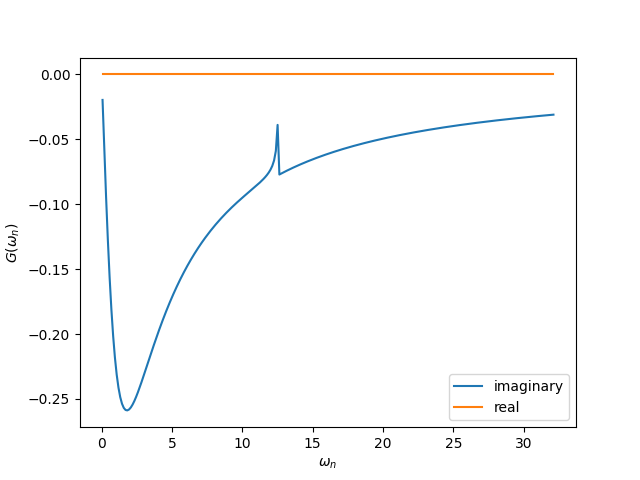
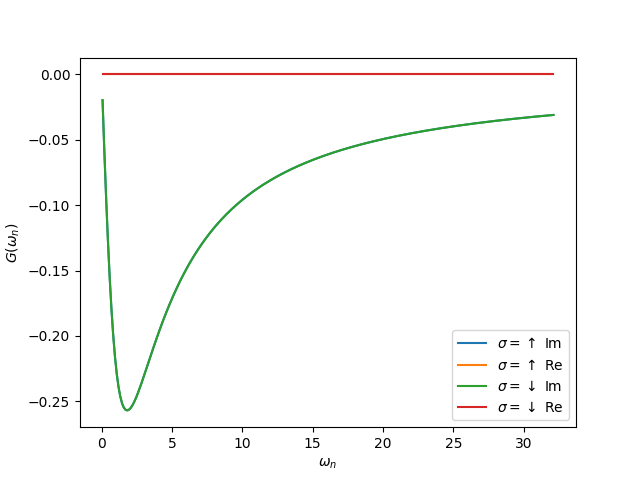
ferromagnetic

diff --git a/matsubara_w/ipt_imag_HM.py b/matsubara_w/ipt_imag_HM.py
@@ -36,7 +36,7 @@ from common import gt_fouriertrans, gw_invfouriertrans
 import common as gf
 import matplotlib.pylab as plt
 
-def single_band_ipt_solver(u_int, g_0_iwn, w_n, tau):
+def single_band_ipt_solver(u_int, g_0_iwn_up, g_0_iwn_dn, w_n, tau):
     r"""Given a Green function it returns a dressed one and the self-energy
 
     .. math:: \Sigma(\tau) \approx U^2 \mathcal{G}^0(\tau)^3
@@ -60,17 +60,24 @@ def single_band_ipt_solver(u_int, g_0_iwn, w_n, tau):
         Imaginary time points, not included edge point of :math:`\beta^-`
     """
 
-    g_0_tau = gw_invfouriertrans(g_0_iwn, tau, w_n, [1., 0., 0.25])
+    beta = tau[-1]
+    g_0_tau_up = gw_invfouriertrans(g_0_iwn_up, tau, w_n, [1., 0., 0.25])
+    g_0_tb_up = [g_0_tau_up[len(tau)-1-t] for t in range(len(tau))]
+    g_0_tau_dn = gw_invfouriertrans(g_0_iwn_dn, tau, w_n, [1., 0., 0.25])
+    g_0_tb_dn = [g_0_tau_dn[len(tau)-1-t] for t in range(len(tau))]    
     # IPT self-energy using G0 of quantum impurity
-    sigma_tau = u_int**2 * g_0_tau**3 
-    sigma_iwn = gt_fouriertrans(sigma_tau, tau, w_n, [u_int**2 / 4., 0., 0.])
+    sigma_tau_up = u_int**2 * g_0_tau_up * g_0_tb_dn * g_0_tau_dn
+    sigma_tau_dn = u_int**2 * g_0_tau_dn * g_0_tb_up * g_0_tau_up
+    sigma_iwn_up = gt_fouriertrans(sigma_tau_up, tau, w_n, [u_int**2 / 4., 0., 0.])
+    sigma_iwn_dn = gt_fouriertrans(sigma_tau_dn, tau, w_n, [u_int**2 / 4., 0., 0.])
     # Dyson eq.
-    g_iwn = g_0_iwn / (1 - sigma_iwn * g_0_iwn) 
+    g_iwn_up = g_0_iwn_up / (1 - sigma_iwn_up * g_0_iwn_up)
+    g_iwn_dn = g_0_iwn_dn / (1 - sigma_iwn_dn * g_0_iwn_dn)    
 
-    return g_iwn, sigma_iwn
+    return g_iwn_up, g_iwn_dn, sigma_iwn_up, sigma_iwn_dn
 
 
-def dmft_loop(u_int, t, g_iwn, w_n, tau, mix=1, conv=1e-3):
+def dmft_loop(u_int, t, g_iwn_up, g_iwn_dn, w_n, tau, mix=1, conv=1e-3):
     r"""Performs the paramagnetic(spin degenerate) self-consistent loop in a
     bethe lattice given the input
 
@@ -100,68 +107,33 @@ def dmft_loop(u_int, t, g_iwn, w_n, tau, mix=1, conv=1e-3):
     loops = 0
     iw_n = 1j * w_n
     while not converged:
-        g_iwn_old = g_iwn.copy()
+        g_iwn_up_old = g_iwn_up.copy()
+        g_iwn_dn_old = g_iwn_dn.copy()
         # Non-interacting GF of quantum impurity
-        g_0_iwn = 1. / (iw_n - t**2 * g_iwn_old)
-        g_iwn, sigma_iwn = single_band_ipt_solver(u_int, g_0_iwn, w_n, tau)
+        g_0_iwn_up = 1. / (iw_n - t**2 * g_iwn_up_old)
+        g_0_iwn_dn = 1. / (iw_n - t**2 * g_iwn_dn_old)
+        g_iwn_up, g_iwn_dn, sigma_iwn_up, sigma_iwn_dn = single_band_ipt_solver(u_int, g_0_iwn_up, g_0_iwn_dn, w_n, tau)
         # Clean for Half-fill
-        g_iwn.real = 0.
-        converged = np.allclose(g_iwn_old, g_iwn, conv)
+        g_iwn_up.real = g_iwn_dn.real = 0.
+        converged = np.allclose(g_iwn_up_old, g_iwn_up, conv) and np.allclose(g_iwn_dn_old, g_iwn_dn, conv)
         loops += 1
         if loops > 500:
             converged = True
-        g_iwn = mix * g_iwn + (1 - mix) * g_iwn_old
-    return g_iwn, sigma_iwn
-
-###############################################################################
-# Energy calculations
-
-def ekin(g_iw, s_iw, beta, w_n, ek_mean, g_iwfree):
-    """Calculates the Kinetic Energy
-    """
-    return 2 * (1j * w_n * (g_iw - g_iwfree) - s_iw * g_iw).real.sum() / beta + ek_mean
-
-
-def ekin_tau(g_iw, tau, w_n, u_int):
-    gt = gw_invfouriertrans(g_iw, tau, w_n, [1., 0., u_int**2 / 4 + 0.25])
-    return -0.5 * simps(gt * gt, tau)
-
-
-def epot(g_iw, s_iw, u, beta, w_n):
-    r"""Calculates the Potential Energy
-
-    Using the local Green Function and self energy the potential
-    energy is calculated using :ref:`potential_energy`
-
-    Taking the tail of this product to decay in the half-filled single
-    band case as:
-
-    .. math:: \Sigma G \rightarrow \frac{U^2}{4(i\omega_n)^2}
-
-    The potential energy per spin is calculated by
-
-    .. math:: \langle V \rangle = \frac{1}{\beta} \sum_{n} \frac{1}{2} (\Sigma(i\omega_n)G(i\omega_n) - \frac{U^2}{4(i\omega_n)^2} + \frac{U^2}{4(i\omega_n)^2})
-    .. math:: = \frac{1}{\beta} \sum_{n>0} \Re e (\Sigma(i\omega_n)G(i\omega_n) - \frac{U^2}{4(i\omega_n)^2}) + \frac{U^2}{8\beta} \sum_{n} \frac{1}{(i\omega_n)^2}
-    .. math:: = \frac{1}{\beta} \sum_{n>0} \Re e (\Sigma(i\omega_n)G(i\omega_n) - \frac{U^2}{4(i\omega_n)^2}) - \frac{U^2\beta}{32}
-
-    """
-    # the last u/8 is because sigma to zero order has the Hartree term
-    # that is avoided in IPT Sigma=U/2. Then times G->1/2 after sum
-    # and times 1/2 of the formula
-    return (s_iw * g_iw + u**2 / 4. / w_n**2).real.sum() / beta - beta * u**2 / 32. + u / 8
-
+        g_iwn_up = mix * g_iwn_up + (1 - mix) * g_iwn_up_old
+        g_iwn_dn = mix * g_iwn_dn + (1 - mix) * g_iwn_dn_old
+    return g_iwn_up, g_iwn_dn, sigma_iwn_up, sigma_iwn_dn
 
 # Parameters
 t = 0.5     # Hopping
 Nwn = 256   # Num of freq: Check if it is consistent with FFT criteria
 
 U_max = 5.
-U_list = np.arange(0.5, U_max, 0.125)    # Interaction strength
-U_print = np.arange(0.5, U_max, 0.125)   # Values when obs should be computed
-#beta_list = np.arange(10, 240, 10)      # Inverse of temperature
+U_list = np.arange(0.5, U_max, 0.125)   # Interaction strength
+U_print = np.arange(0.5, U_max, 0.5)    # Values when obs should be computed
+beta_list = np.arange(10, 240, 10)      # Inverse of temperature
 #beta_print = np.arange(10, 240, 50)
-beta_list = [50]
-beta_print = [50]
+#U_list = U_print = [2.5]
+beta_list = beta_print = [50]
 
 # Hysteresis
 hyst = 1    
@@ -175,21 +147,26 @@ de = t/10                       # Energy differential
 e = np.arange(-2*t, 2*t, de)    # Energy
 
 # Observables
+tau_U = []
 dos_U = []
 n_U = []
 d_U = []
 Ekin_U = []
 Z_U = []
 phase_U = []
-Gwn_U = []
+Gwn_U_up = []
+Gwn_U_dn = []
+Gtau_U_up = []
+Gtau_U_dn = []
 
 # Main loop
 for beta in beta_list:
     # Generate Matsubara freq
-    tau, wn = gf. tau_wn_setup(beta, Nwn)
+    tau, wn = gf. tau_wn_setup(beta, Nwn) 
     
     # Seed green function
-    G_iwn = gf.greenF(wn, sigma=0, mu=0, D=1)
+    G_iwn_up = gf.greenF(wn, 1, 0, 2*t)
+    G_iwn_dn = gf.greenF(wn, -1, 0, 2*t)
     
     # Index of zero frequency
     w0_idx = int(len(w)/2)
@@ -200,28 +177,44 @@ for beta in beta_list:
     Ekin_beta = []
     Z_beta = []
     phase_beta = []
-    Gwn_beta = []
+    Gwn_beta_up = []
+    Gwn_beta_dn = []
+    Gtau_beta_up = []
+    Gtau_beta_dn = []
 
     for U in U_list:
-        G_iwn, Sig_iwn = dmft_loop(U, t, G_iwn, wn, tau, mix=1, conv=1e-3)
+        G_iwn_up, G_iwn_dn, Sig_iwn_up, Sig_iwn_dn = dmft_loop(U, t, G_iwn_up, G_iwn_dn, wn, tau, mix=1, conv=1e-3)
+        
+        G_iwn = G_iwn_up
+        Sig_iwn = Sig_iwn_up
+        
+        # Imaginary time Green function
+        G_tau_up = gw_invfouriertrans(G_iwn_up, tau, wn, [1., 0., 0.25])
+        G_tau_dn = gw_invfouriertrans(G_iwn_dn, tau, wn, [1., 0., 0.25])
         
         # Analytic continuation using Pade
-        g_w = gf.pade_continuation(G_iwn, wn, w, w_set=None)
-        sig_w = gf.pade_continuation(Sig_iwn, wn, w, w_set=None)
+        #g_w = gf.pade_continuation(G_iwn, wn, w, w_set=None)
+        #sig_w = gf.pade_continuation(Sig_iwn, wn, w, w_set=None)
         
         # Phase of material, 0 for metallic, 1 for insulating
+        '''
         phase = -1 if -g_w[w0_idx].imag > 1e-2 else 1
         phase_beta.append(phase)  
+        '''
         
         if U in U_print and beta in beta_print:
-            # Save Matsubara Green function
-            Gwn_beta.append(G_iwn)
+            # Save Green functions
+            Gwn_beta_up.append(G_iwn_up)
+            Gwn_beta_dn.append(G_iwn_dn)
+            Gtau_beta_up.append(G_tau_up)
+            Gtau_beta_dn.append(G_tau_dn)
             
             # DOS
-            dos_beta.append(-g_w.imag)
+            #dos_beta.append(-g_w.imag/np.pi)
             
             # Electron concentration for temp 1/beta and energy w
-            n = np.sum(-g_w.imag/np.pi * gf.fermi_dist(w, beta) * dw)
+            #n = np.sum(-g_w.imag/np.pi * gf.fermi_dist(w, beta) * dw)
+            n = np.sum(G_iwn.real) + 0.5
             n_beta.append(n)
             
             # Double occupancy
@@ -237,19 +230,24 @@ for beta in beta_list:
             Ekin_beta.append(Ekin.real)
             
             # Quasi-particle weight
-            dSig = (sig_w[w0_idx+1].real-sig_w[w0_idx].real)/dw
-            Z_beta.append(1/(1-dSig))
+            #dSig = (sig_w[w0_idx+1].real-sig_w[w0_idx].real)/dw
+            #Z_beta.append(1/(1-dSig))
     
     if beta in beta_print:
+        tau_U.append(tau)
         dos_U.append(dos_beta)
         n_U.append(n_beta)
         d_U.append(d_beta)
         Ekin_U.append(Ekin_beta)
         Z_U.append(Z_beta)
         phase_U.append(phase_beta)
-        Gwn_U.append(Gwn_beta)
+        Gwn_U_up.append(Gwn_beta_up)
+        Gwn_U_dn.append(Gwn_beta_dn)
+        Gtau_U_up.append(Gtau_beta_up)
+        Gtau_U_dn.append(Gtau_beta_dn)
     
 # Print DOS
+'''
 for i in range(len(beta_print)):
     dos = dos_U[i]
     beta = beta_print[i]
@@ -262,26 +260,47 @@ for i in range(len(beta_print)):
     plt.title(r'$\beta=$'+str(beta))
     plt.savefig("./figures/dos_beta="+str(beta)+".png")
     plt.close()
+'''
 
-# Print Matsubara Green function
+# Print Green functions
 for i in range(len(beta_print)):
     beta = beta_print[i]
-    Gwn = Gwn_U[i]
+    tau = tau_U[i]
+    Gwn_up = Gwn_U_up[i]
+    Gwn_dn = Gwn_U_dn[i]
+    Gtau_up = Gtau_U_up[i]
+    Gtau_dn = Gtau_U_dn[i]
     for j in range(len(U_print)):
         U = U_print[j]
+        
+        # Matsubara Green function
         plt.figure()
         plt.xlabel(r'$\omega_n$')
         plt.ylabel(r'$G(\omega_n)$')
-        plt.plot(wn, Gwn[j].imag, label='imaginary')
-        plt.plot(wn, Gwn[j].real, label='real')
+        plt.plot(wn, Gwn_up[j].imag, label=r'$\sigma=\uparrow$ Im')
+        plt.plot(wn, Gwn_up[j].real, label=r'$\sigma=\uparrow$ Re')
+        plt.plot(wn, Gwn_dn[j].imag, label=r'$\sigma=\downarrow$ Im')
+        plt.plot(wn, Gwn_dn[j].real, label=r'$\sigma=\downarrow$ Re')
         plt.legend()
         plt.savefig("./figures/Gwn/Gwn_beta="+str(beta)+"_U="+str(U)+".png")
+        plt.close()
+        
+        # Imaginary time Green function
+        plt.figure()
+        plt.xlabel(r'$\tau$')
+        plt.ylabel(r'$G(\tau)$')
+        plt.plot(tau, Gtau_up[j].imag, label=r'$\sigma=\uparrow$ Im')
+        plt.plot(tau, Gtau_up[j].real, label=r'$\sigma=\uparrow$ Re')
+        plt.plot(tau, Gtau_dn[j].imag, label=r'$\sigma=\downarrow$ Im')
+        plt.plot(tau, Gtau_dn[j].real, label=r'$\sigma=\downarrow$ Re')
+        plt.legend()
+        plt.savefig("./figures/Gtau/Gtau_beta="+str(beta)+"_U="+str(U)+".png")
         plt.close()
 
 # Print zero-freq Matsubara Green function
 for i in range(len(beta_print)):
     beta = beta_print[i]
-    Gwn = Gwn_U[i]
+    Gwn = Gwn_U_up[i]
     Gw0 = []
     for g in Gwn:
         Gw0.append(g[0].imag)
@@ -299,9 +318,10 @@ for i in range(len(beta_print)):
     beta = beta_print[i]    
     plt.xlabel('U')
     plt.ylabel('n')
-    plt.plot(U_print, n, label=str(beta))
+    plt.plot(U_print, n, label='beta='+str(beta))
     plt.legend()
 plt.savefig("./figures/n.png")
+
 
 # Print d
 plt.figure()
@@ -310,7 +330,7 @@ for i in range(len(beta_print)):
     beta = beta_print[i]    
     plt.xlabel('U')
     plt.ylabel('d')
-    plt.plot(U_print, d, label=str(beta))
+    plt.plot(U_print, d, label='beta='+str(beta))
     plt.legend()
 plt.savefig("./figures/d.png")
 
@@ -323,22 +343,25 @@ for i in range(len(beta_print)):
     plt.ylabel(r'$E_K$')
     plt.xlim(2, 3.5)
     plt.ylim(-0.5, 0)
-    plt.plot(U_print, Ekin, label=str(beta))
+    plt.plot(U_print, Ekin, label='beta='+str(beta))
     plt.legend()
 plt.savefig("./figures/Ekin.png")
 
 # Print quasi-particle weight
+'''
 plt.figure()
 for i in range(len(beta_print)):
     Z = Z_U[i]
     beta = beta_print[i]
     plt.xlabel('U')
     plt.ylabel('Z')
-    plt.plot(U_print, Z, label=str(beta))
+    plt.plot(U_print, Z, label='beta='+str(beta))
     plt.legend()
 plt.savefig("./figures/Z.png")
+'''
 
 # Print phase diagram
+'''
 plt.figure()
 plt.xlabel('U')
 plt.ylabel('T')
@@ -358,3 +381,4 @@ im_edges = [U_list[0], U_max,
             T_list[0], T_list[len(T_list)-1]]
 plt.imshow(phase_diag, interpolation='none', extent=im_edges, aspect='auto')
 plt.savefig("./figures/phase_diag.png")
+'''

diff --git a/matsubara_w/common.py b/matsubara_w/common.py
@@ -55,12 +55,18 @@ def tau_wn_setup(beta,Nwn):
     """
 
     w_n = matsubara_freq(beta, Nwn)
-    tau = np.arange(0, beta, Nwn / 2 / len(w_n))
+    
+    '''
+    Rodo's comment: when including beta in tau array, sampling must be
+    greater than 2. 100 works ok
+    '''
+    sample = 1e2
+    tau = np.arange(0, beta+1/sample, Nwn / sample / len(w_n)) # Nwn = len(w_n)
 
     return tau, w_n
 
 
-def greenF(w_n, sigma=0, mu=0, D=1):
+def greenF(w_n, sigma, mu, D):
     r"""Calculate the Bethe lattice Green function, defined as part of the
     hilbert transform.
 
@@ -144,7 +150,8 @@ def gt_fouriertrans(g_tau, tau, w_n, tail_coef=(1., 0., 0.)):
     freq_tail_fourier
     gt_fouriertrans"""
 
-    beta = tau[1] + tau[-1]
+    #beta = tau[1] + tau[-1] # Un-comment if tau doesnt include beta 
+    beta = tau[-1]
     freq_tail, time_tail = freq_tail_fourier(tail_coef, beta, tau, w_n)
 
     gtau = g_tau - time_tail    
@@ -193,7 +200,6 @@ def freq_tail_fourier(tail_coef, beta, tau, w_n):
 
     return freq_tail, time_tail
 
-
 def gw_invfouriertrans(g_iwn, tau, w_n, tail_coef=(1., 0., 0.)):
     r"""Performs an inverse fourier transform of the green Function in which
     only the imaginary positive matsubara frequencies
@@ -236,7 +242,8 @@ def gw_invfouriertrans(g_iwn, tau, w_n, tail_coef=(1., 0., 0.)):
     freq_tail_fourier
     """
 
-    beta = tau[1] + tau[-1]
+    #beta = tau[1] + tau[-1] # Un-comment if tau doesnt include beta 
+    beta = tau[-1]
     freq_tail, time_tail = freq_tail_fourier(tail_coef, beta, tau, w_n)
 
     giwn = g_iwn - freq_tail
